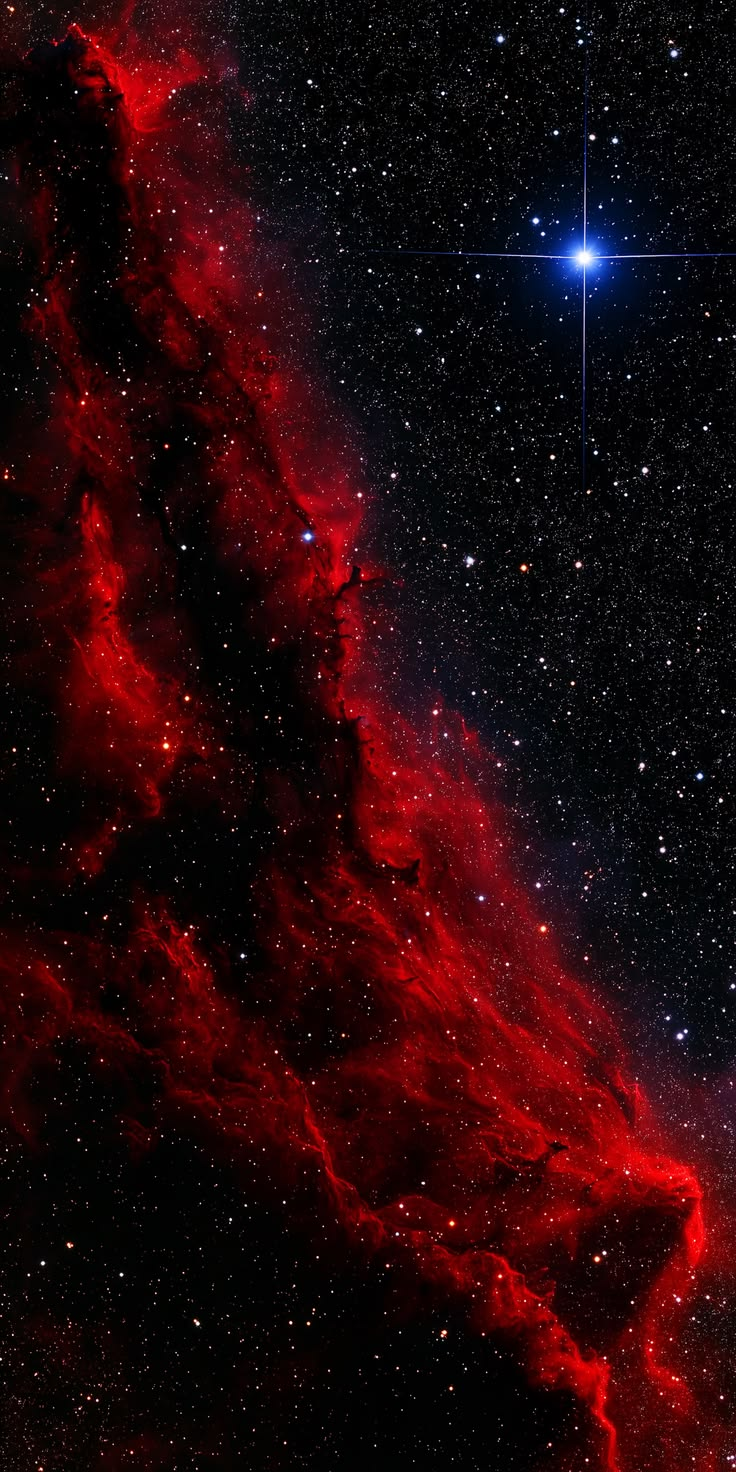
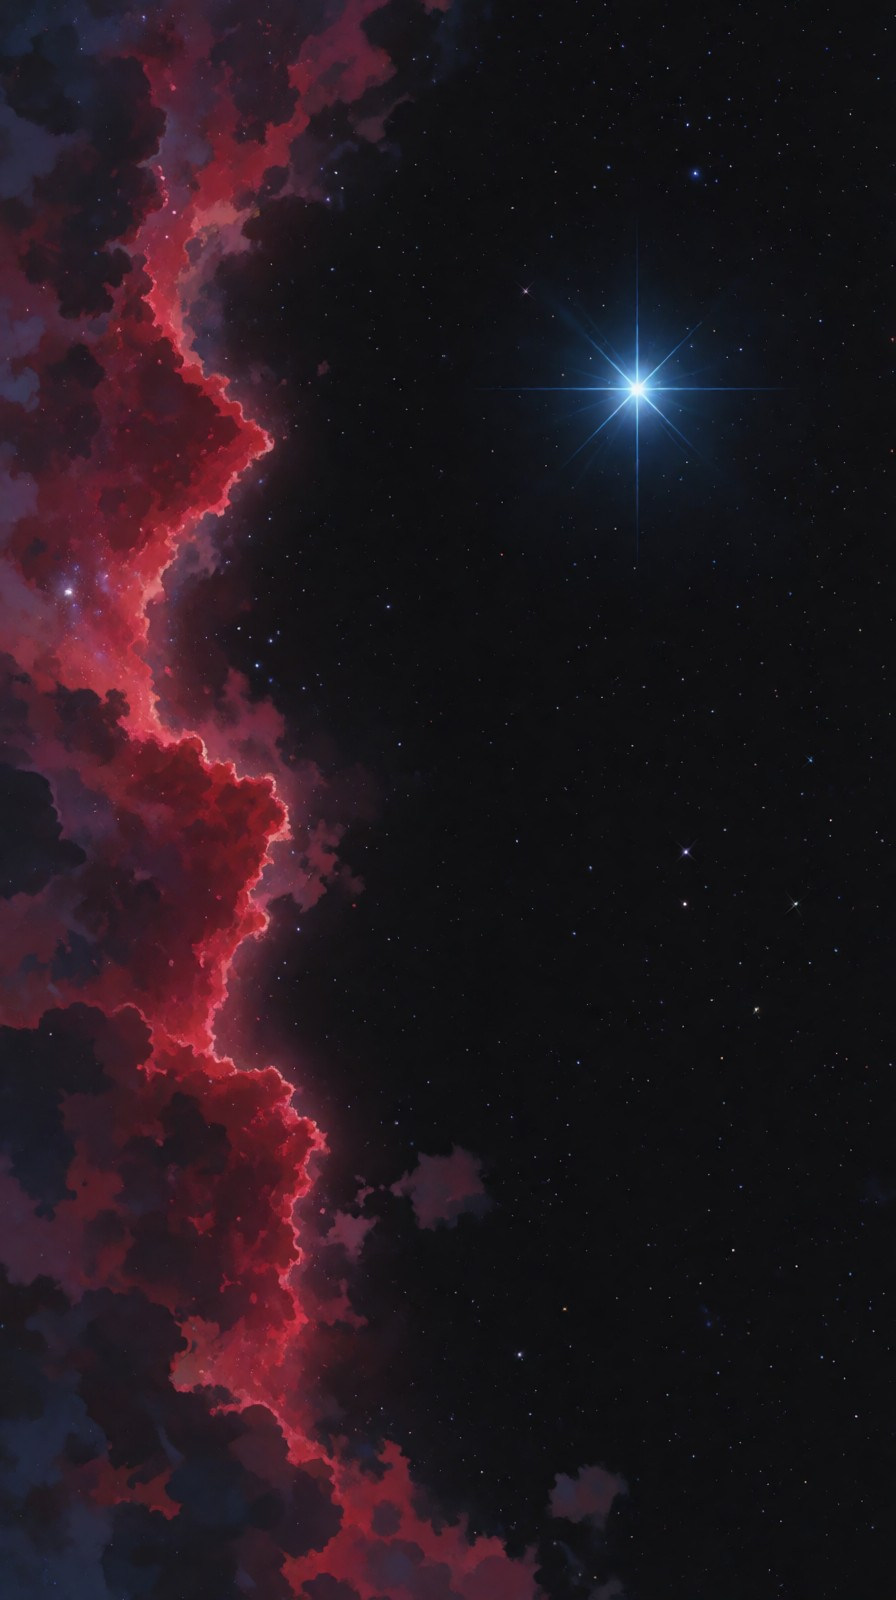
Anime skies and moon, moon path across the view, brighter figure at night
- Sky pictures (7 day, 7 night, 7 aurora) are anime skies made with Krea 2,
  following the earlier photo-like set; the Ha Long Bay map uses the aurora
  set at night. The old pictures were removed from the repository.
- The moon is an anime moon picture (a disc seen straight on), larger, and
  crosses the view once a night: it rises on the right at 18:00, reaches
  about 15 degrees at midnight and sets on the left at 06:00. It stays below
  the bloom threshold with a faint glow only outside the rim, so it is crisp.
- The figure stays readable at night (cool moonlit tint instead of dark).
- Panoramas: the sky cut-out keeps sky pieces between leaves, and magenta
  repair is limited to the Hawaii picture; the wall reaches below the picture
  so the scenery fills the bottom of the screen.
- Docs, memory-bank and picture scripts updated (sky and moon pictures).

diff --git a/src/world.ts b/src/world.ts
@@ -41,7 +41,7 @@ moonMap.colorSpace = THREE.SRGBColorSpace;
 const nightMat = new THREE.ShaderMaterial({
   side: THREE.BackSide, depthWrite: false, transparent: true, blending: THREE.AdditiveBlending,
   uniforms: {
-    uMoon: { value: new THREE.Vector3() }, uMoonSize: { value: 0.09 }, uMoonTint: { value: new THREE.Vector3(0.9, 0.97, 1.1) }, uMoonGlow: { value: new THREE.Vector3(0.45, 0.62, 1.0) }, uStars: { value: 1 }, uNight: { value: 0 }, uTime: { value: 0 }, uCloud: { value: 0.5 }, uAurora: { value: 0 },
+    uMoon: { value: new THREE.Vector3() }, uMoonSize: { value: 0.15 }, uMoonTint: { value: new THREE.Vector3(0.9, 0.97, 1.1) }, uMoonGlow: { value: new THREE.Vector3(0.45, 0.62, 1.0) }, uStars: { value: 1 }, uNight: { value: 0 }, uTime: { value: 0 }, uCloud: { value: 0.5 }, uAurora: { value: 0 },
     uMap: { value: starMap }, uMoonMap: { value: moonMap }, uRot: { value: new THREE.Matrix3() },
     uPhoto: { value: null as THREE.Texture | null }, uPhotoOn: { value: 0 }, uPhotoAspect: { value: 1.5 },
   },
@@ -79,7 +79,7 @@ const nightMat = new THREE.ShaderMaterial({
       float v = on * (s + cross_) * (0.35 + 0.65 * hash(q.zx + 7.0));
       return v * mix(vec3(0.7, 0.82, 1.0), vec3(1.0, 0.9, 0.75), hash(q.xz + 11.0));
     }
-    // The moon: real surface detail, a tint (silver or red) and a glow. Also used over a night picture.
+    // The moon: an anime moon picture, a tint (silver or red) and a glow. Also used over a night picture.
     vec3 addMoon(vec3 col, vec3 d){
       float md = dot(d, uMoon);
       vec3 mz = uMoon;
@@ -88,12 +88,12 @@ const nightMat = new THREE.ShaderMaterial({
       vec2 mp = vec2(dot(d, mx), dot(d, my)) / uMoonSize;
       float mr = length(mp);
       if (md > 0.0 && mr < 1.0) {
-        float z = sqrt(1.0 - mr * mr);
-        vec3 n = vec3(mp, z);
-        vec2 muv = vec2(atan(n.x, n.z) / 6.2831853 + 0.5, asin(clamp(n.y, -1.0, 1.0)) / 3.1415927 + 0.5);
-        col = mix(col, texture2D(uMoonMap, muv).rgb * uMoonTint * pow(z, 0.3) * 1.7, smoothstep(1.0, 0.94, mr));
+        // The moon picture is an anime moon seen straight on: its disc fills the picture.
+        vec2 muv = mp * 0.5 + 0.5;
+        col = mix(col, texture2D(uMoonMap, muv).rgb * uMoonTint * 0.5, smoothstep(1.0, 0.97, mr));
       }
-      col += uMoonGlow * (0.55 * exp(-max(mr - 1.0, 0.0) * 5.0) * step(0.0, md) * smoothstep(0.0, 0.2, mr) + 0.12 * pow(max(md, 0.0), 120.0));
+      // A faint glow only outside the rim, and a disc dimmer than the bloom threshold: the moon stays crisp instead of hazy.
+      col += uMoonGlow * (0.22 * exp(-max(mr - 1.0, 0.0) * 9.0) * step(0.0, md) * smoothstep(0.985, 1.03, mr) + 0.03 * pow(max(md, 0.0), 120.0));
       return col;
     }
     void main(){
@@ -272,7 +272,7 @@ const figureMat = new THREE.ShaderMaterial({
     void main(){
       vec4 c = texture2D(uTex, vUv);
       vec3 col = c.rgb * uWarm * (0.5 + 0.6 * uLight);
-      col *= mix(1.0, 0.25, uNight);
+      col *= mix(vec3(1.0), vec3(0.62, 0.7, 0.9), uNight); // at night the figure stays readable, with a cool moonlit tint
       gl_FragColor = vec4(col * 1.9, c.a); // pre-multiplied like the domes: the output pass tone-maps once
       #include <colorspace_fragment>
     }`,
@@ -570,7 +570,11 @@ export class World {
     u.sunPosition.value.copy(sun);
     u.time.value = this.t;
     u.cloudSpeed.value = 0.00002 * (0.5 + this.windLevel * 2);
-    nightMat.uniforms.uMoon.value.set(-Math.cos(a), -Math.sin(a) * 0.85, -0.6).normalize();
+    // The moon crosses the view once a night: it rises on the right at 18:00, climbs to about 15 degrees at midnight and sets on the left
+    // at 06:00, so it always stays on the screen (a real moon path would carry it far above the top edge).
+    const np = ((((hour - 18) % 24) + 24) % 24) / 12; // 0 at 18:00, 1 at 06:00, up to 2 by day (below the horizon)
+    const az = THREE.MathUtils.degToRad(38 - 76 * np), el = THREE.MathUtils.degToRad(3 + 12 * Math.sin(Math.PI * np));
+    nightMat.uniforms.uMoon.value.set(Math.sin(az) * Math.cos(el), Math.sin(el), -Math.cos(az) * Math.cos(el));
     if (this.moonOverride) nightMat.uniforms.uMoon.value.copy(this.moonOverride).normalize(); // debugging aid: pin the moon somewhere
     nightMat.uniforms.uNight.value = this.night;
     nightMat.uniforms.uTime.value = this.t;

diff --git a/scripts/figures/3-cut-sky.py b/scripts/figures/3-cut-sky.py
@@ -1,9 +1,11 @@
+# MAP PICTURE, step 3 of 3. Run:  python 3-cut-sky.py anime_m anime_out maldives hawaii   -> anime_out/<name>.webp (copy to public/resorts).
 # Cut the sky out of a panorama whose sky Qwen Image Edit replaced with flat magenta (#ff00ff).
 # Magenta is used (not green) because the scenery is full of green leaves. The matte is soft, so leaf edges stay clean.
 import sys, os, json, numpy as np
 from PIL import Image
 from scipy import ndimage as ndi
 
+REPAIR = {"hawaii"}                                                 # pictures where Qwen painted magenta patches on the scenery itself (a mountain peak): repaired below
 STRICT = {"bali"}                                                   # pictures whose far haze is magenta-tinted: cut less so that the distant volcano stays
 
 def key(path, name=""):
@@ -21,7 +23,7 @@ def key(path, name=""):
     near_sky = ndi.binary_dilation(sky, iterations=10)
     sizes = ndi.sum(np.ones_like(lab), lab, range(1, n + 1))
     for i, v in enumerate(sizes, 1):
-        if v > (150 if strict else 40) and ratio[lab == i].mean() > (0.8 if strict else 0.6) and near_sky[lab == i].any():
+        if v > (150 if strict else 40) and ratio[lab == i].mean() > (0.8 if strict else 0.6) and (near_sky[lab == i].any() or name not in REPAIR):
             sky |= lab == i
     region = ndi.binary_dilation(sky, iterations=3)                 # the sky plus its anti-aliased rim
     alpha = np.where(region, 1.0 - np.clip(((ratio - 0.25) / 0.6 if strict else (ratio - 0.12) / 0.5), 0, 1), 1.0)
@@ -37,7 +39,7 @@ def key(path, name=""):
     idx = ndi.distance_transform_edt(band, return_distances=False, return_indices=True)
     f[band] = f[idx[0], idx[1]][band]
     # stray magenta (not sky): replace it by the color of the nearest clean pixel
-    stray = (ratio > 0.6) & ~band & ~sky
+    stray = (ratio > 0.5) & (lo > 140) & ~band & ~sky & (name in REPAIR)   # Qwen's paint on a peak is often a paler pink than the sky              # only bright, saturated magenta: dark purple shadows are real
     stray = ndi.binary_dilation(stray, iterations=2) & ~sky
     if stray.any():
         clean = ~stray & ~sky

diff --git a/docs/ASSETS.md b/docs/ASSETS.md
@@ -11,8 +11,9 @@
 | `public/maps/*.json` | the six built-in maps (Maldives, Hawaii, Bali, Bora Bora, Thai beach, Ha Long Bay) | the author's own |
 | `public/maps/added/` | maps you add in the app (json + card jpg) | yours |
 | `public/sounds/` | wind, crickets, forest recordings | CC0 (OpenGameArt, see `CREDITS.txt`) |
-| `public/sky/starmap.jpg`, `moon.jpg` | NASA star map and moon | public domain |
-| `public/sky/day`, `night` | sky photos picked at random at every dusk and dawn | collected from Pinterest by the author; replace them with your own if you publish or share this project |
+| `public/sky/starmap.jpg` | NASA star map | public domain |
+| `public/sky/moon.jpg` | the anime moon: a full moon seen straight on, its disc filling the picture | generated for this project (Krea 2 Turbo) |
+| `public/sky/day`, `night`, `aurora` | anime sky pictures (7 each) picked at random at every dusk and dawn; the aurora ones are used by maps whose `sky.nightPhotos` is `aurora` | generated for this project |
 
 No third-party photograph or 3D model is bundled.
 
@@ -29,6 +30,10 @@ Everything is made on the author's PC with a local ComfyUI (`http://127.0.0.1:81
 1. `1-gen-figure.mjs`: Krea 2 Turbo draws the figure seen from behind on a flat green background. Edit `SCENES` for a new seat.
 2. `2-remove-shadow.mjs`: Qwen Image Edit (2511, lightning, 4 steps) removes the cast shadow and flattens the green. Putting "no shadow" in the prompt does not work with the Turbo models (cfg 1, no negative prompt).
 3. `3-cut-figure.mjs`: the ComfyUI-RMBG `BiRefNetRMBG` node (BiRefNet-matting) gives a real alpha matte. Crop to the subject, make it square, save a 768 px WebP in `public/figures`. Keep figures free of baked shadows: the app tints the picture by the time of day.
+
+### A sky picture
+
+Tall (896x1600) anime skies from Krea 2 Turbo, sky only, no sun, no moon, no ground. They follow the earlier photo-like set: each of the old pictures was analyzed (cloud type, colors, light) and rewritten as an anime prompt in `1-gen-sky.mjs`. VideoStudioOM's QwenVL "describe image" module can do the analysis automatically (`scripts/figures/describe.mjs`; it needs about 2 minutes per picture on this PC, so the prompts were written from the pictures directly). Day: scattered cumulus, big billowing clouds, cirrus streaks, a cumulus tower, peach sunset clouds, violet dusk clouds, a twilight gradient. Night: milky way and purple, teal, turquoise, red and yellow nebulae, moonlit clouds. Aurora: seven different curtains and ribbons.
 
 ### A map picture
 

diff --git a/docs/ARCHITECTURE.md b/docs/ARCHITECTURE.md
@@ -17,7 +17,7 @@ browser                                   server (server/index.mjs)
 
 Everything is in front of one fixed camera: the view cannot be dragged or moved.
 
-- **Sky**: three.js `Sky` (physical, with clouds) by day; a dome shader at night with NASA's star map, the moon, moonlit clouds and meteors. Optional sky photos replace both (mirrored sideways so there is no seam). A haze dome softens the horizon.
+- **Sky**: three.js `Sky` (physical, with clouds) by day; a dome shader at night with NASA's star map, an anime moon picture, moonlit clouds and meteors. The moon is large and crosses the view once a night (rises on the right at 18:00, about 15 degrees high at midnight, sets on the left at 06:00), so it always stays on the screen. Optional sky photos replace both (mirrored sideways so there is no seam). A haze dome softens the horizon.
 - **Cloud deck**: a huge plane with a drifting noise shader (`deckMat`) that fades into the horizon haze. It is shown only on a map without a panorama.
 - **Panorama wall** (`photoMat`): a 160 degree cylinder 150 m away carrying the map's picture. The picture has its sky cut out (alpha), so the real sky shows above the scenery; light and night tint it. Its sea line is aligned to the camera height (`scenery.horizon`).
 - **Mountains** (`mountainMat`): optional hazy strips (far, middle, near) behind the panorama, standing on its sea line.

diff --git a/memory-bank/knowledge/RULES.md b/memory-bank/knowledge/RULES.md
@@ -49,3 +49,8 @@
 
 **Rule:** panoramas and figures are anime illustrations made with Krea 2 and Qwen Image Edit (no photo-real, no 3D toy figures); the resort must make people want to go (palm trees, flowers, sparkling water).
 **Why:** the user said the picture and the figure looked separated, the photo-real resort did not make them want to visit, and asked for anime. They also want Qwen Image Edit (and AI matting) for the cuts, not hand-made heuristics.
+
+## The moon is an anime picture, large, crisp, and moves across the view
+
+**Rule:** public/sky/moon.jpg is an anime moon disc; the moon crosses the visible sky each night and stays below the bloom threshold, with a faint glow only outside the rim. At night the figure stays readable (cool moonlit tint, not dark).
+**Why:** the user asked for a bigger anime moon that moves with the time, that is crisp (not hazy), and for a brighter figure at night.
